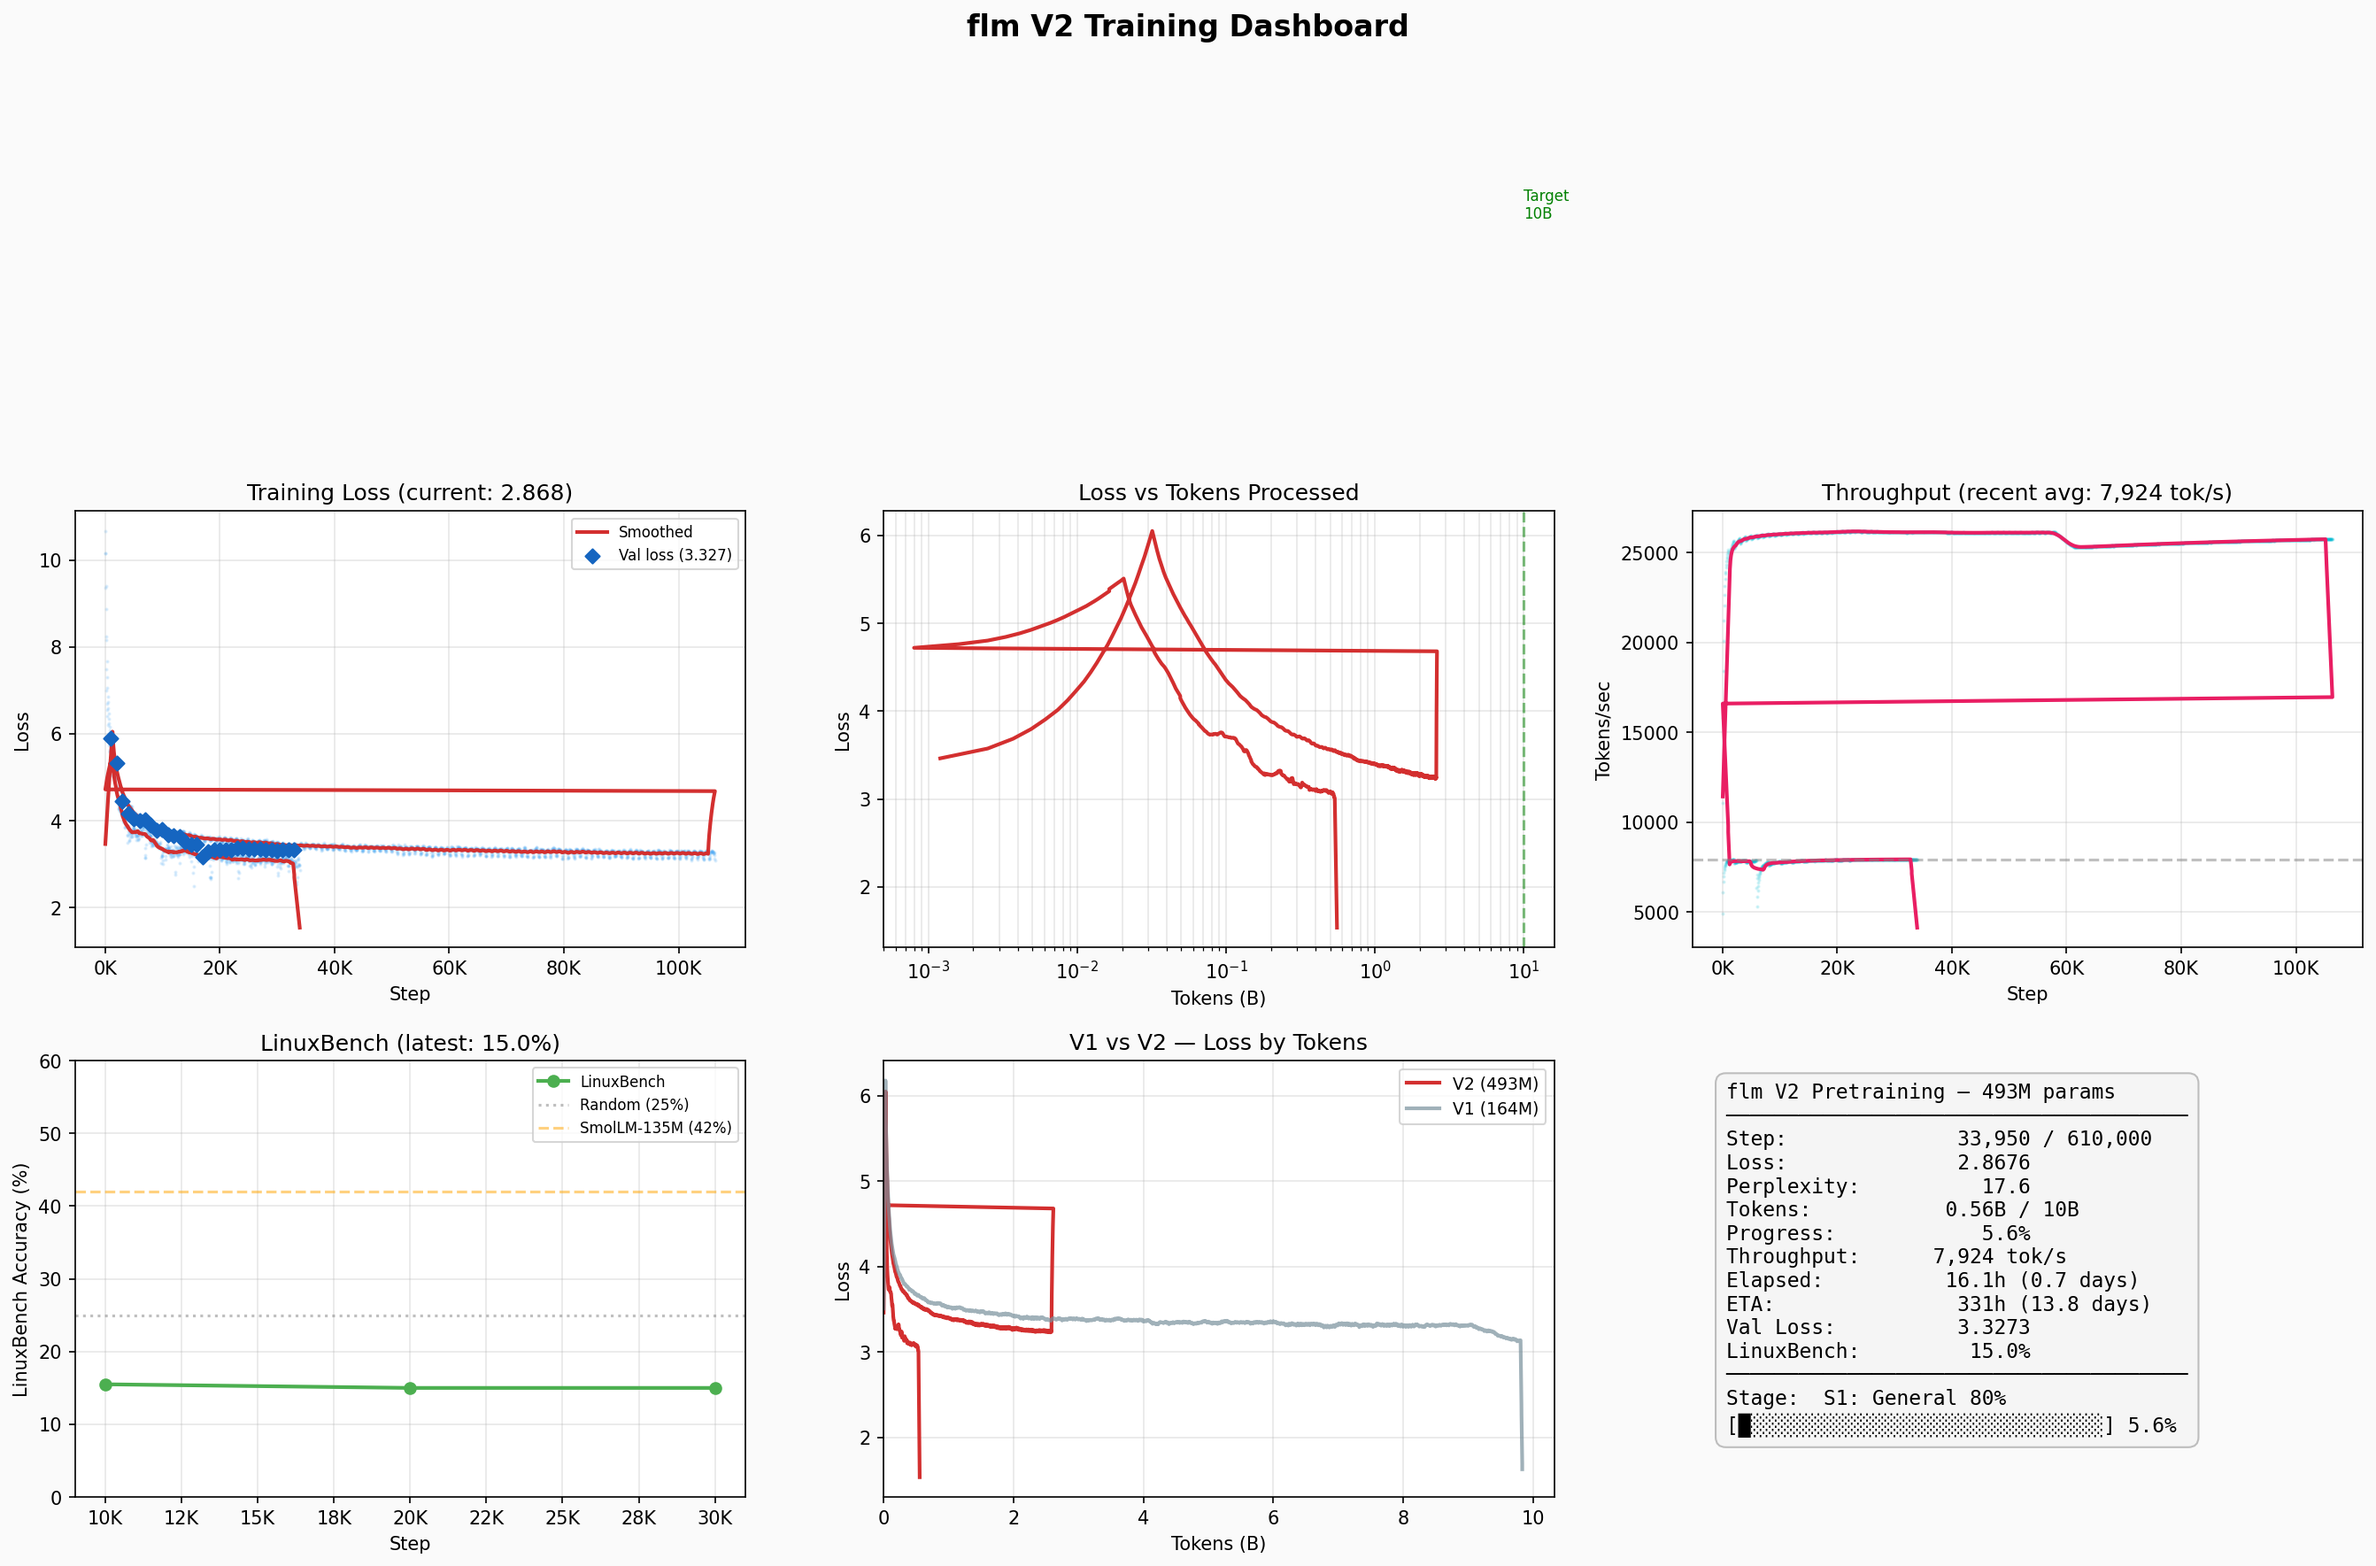
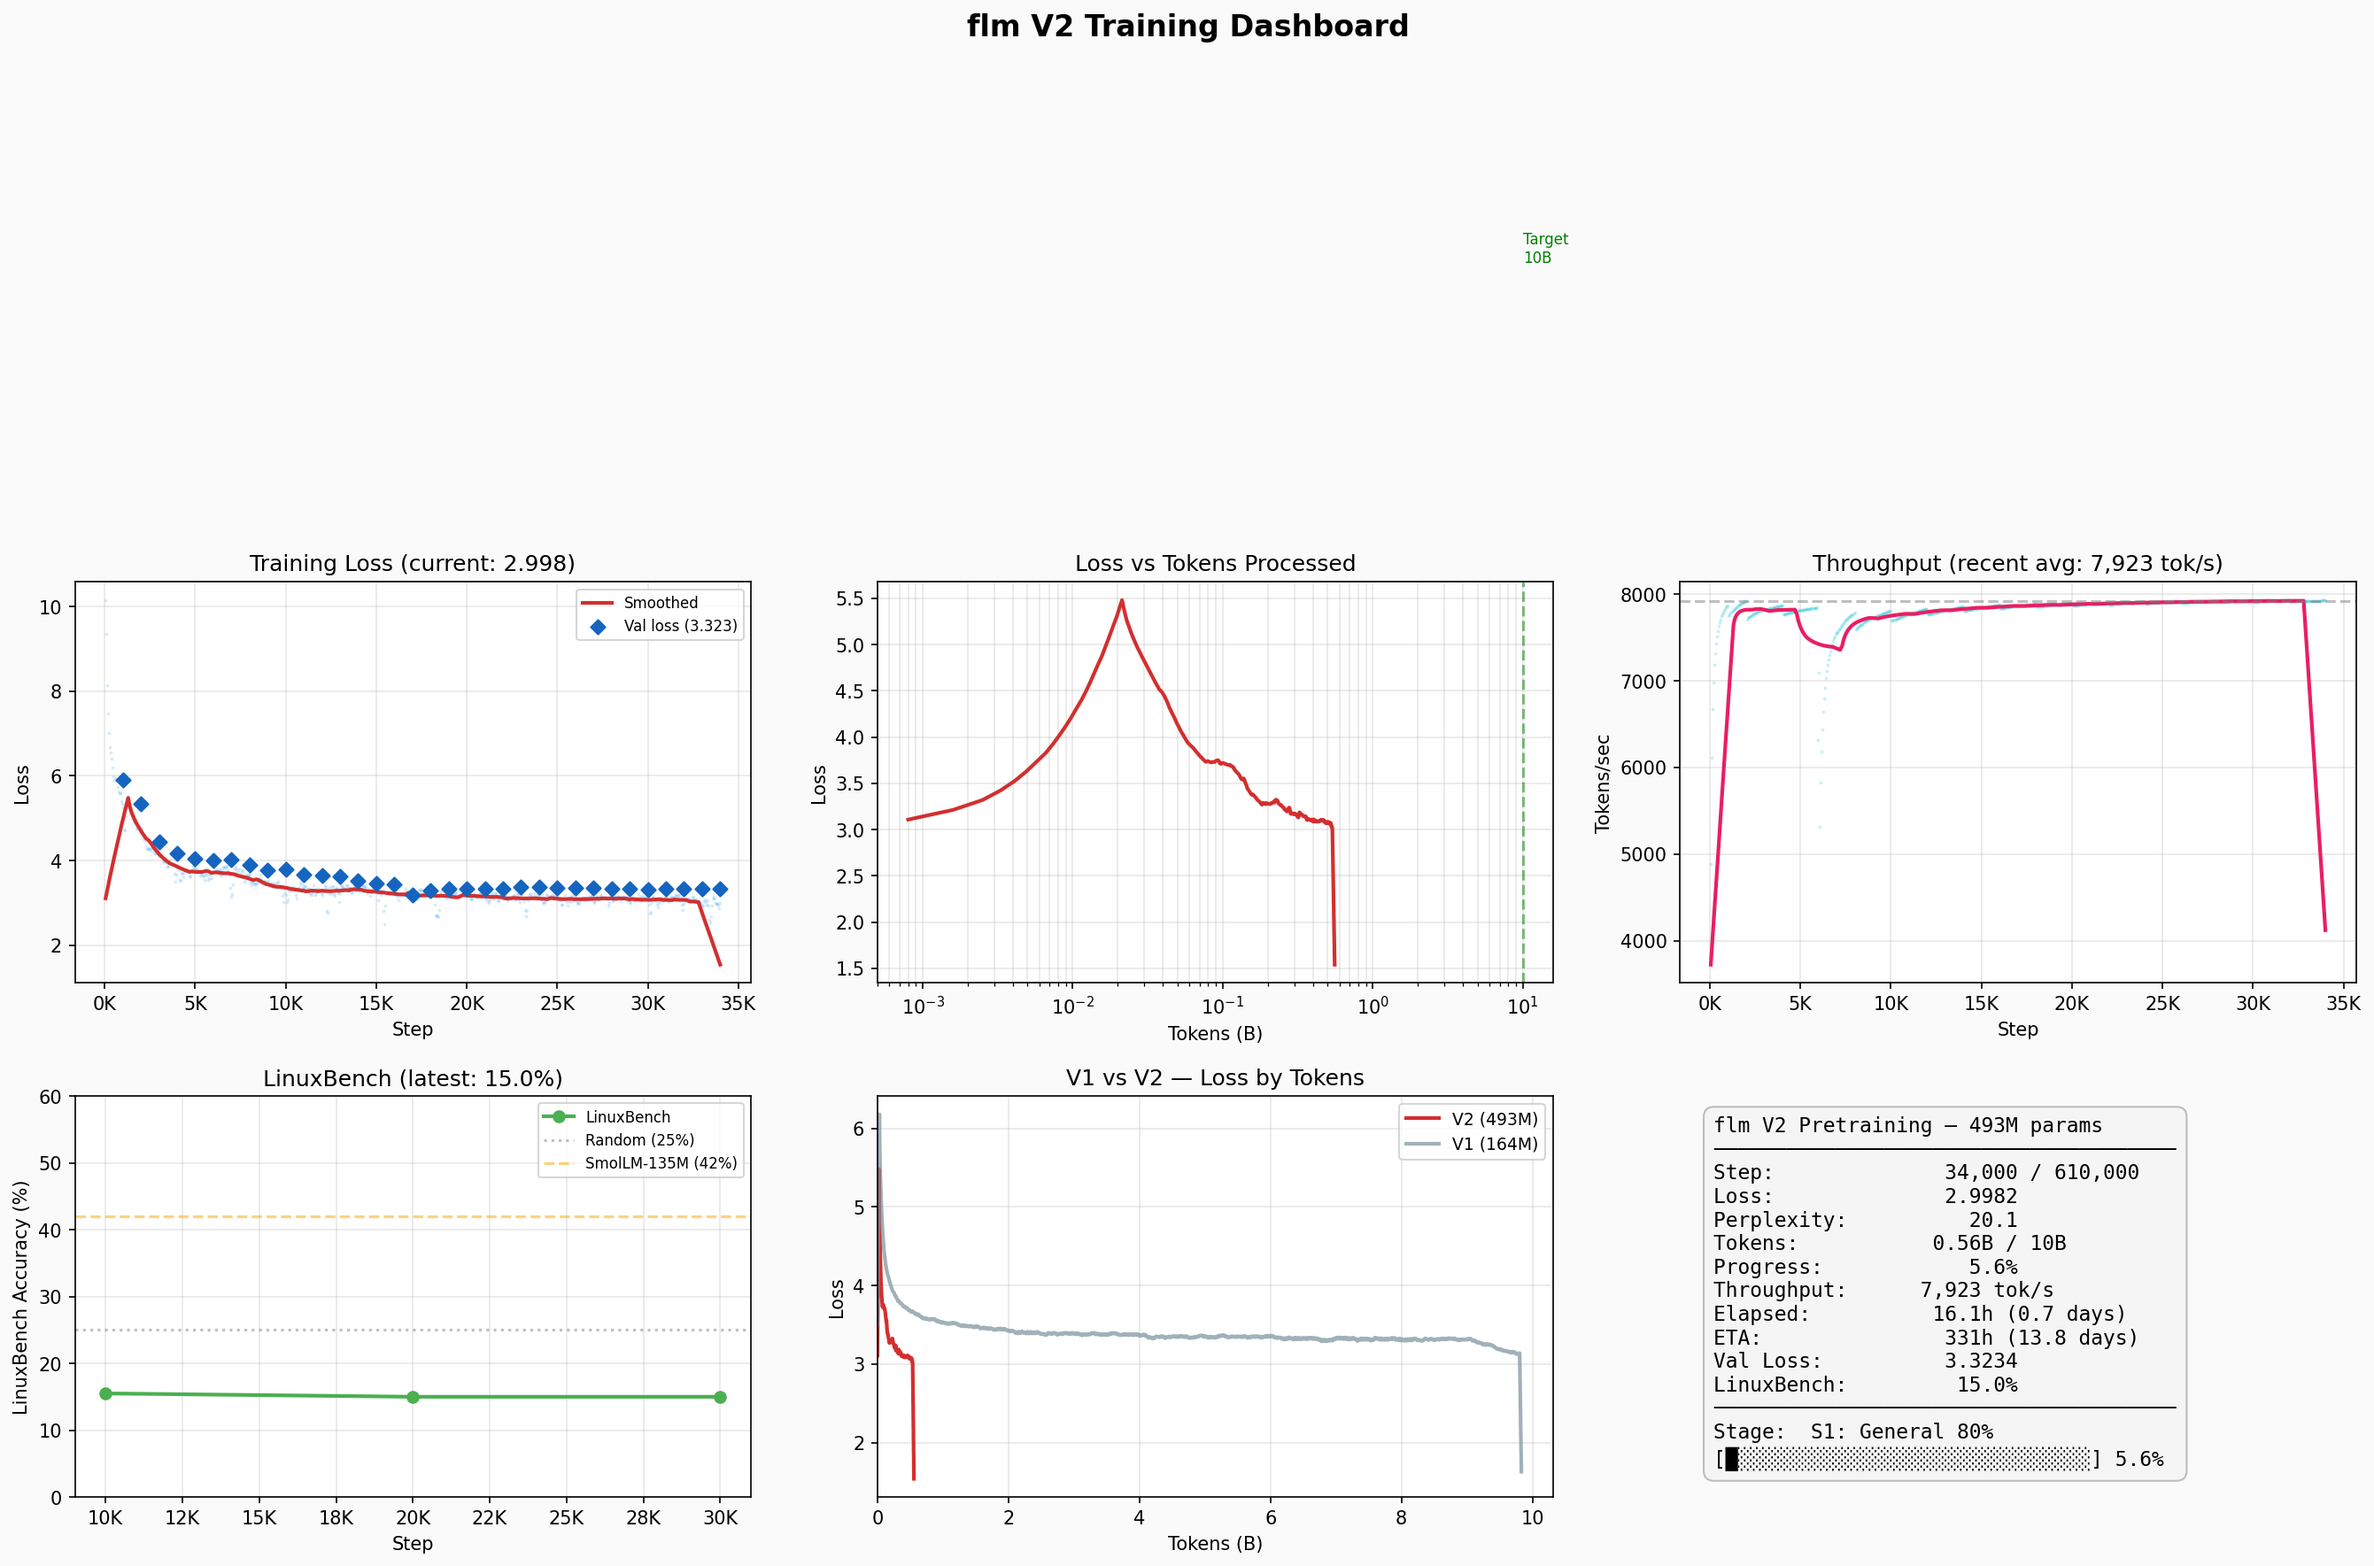
Fix dashboard spiral bug, handle run restarts in metrics
- Detect step decreases in metrics CSV and use only latest run
- Deduplicate steps (merge val_loss/linux_bench from extra rows)
- Updated dashboard plot at step 34K

diff --git a/plot_training.py b/plot_training.py
@@ -61,7 +61,7 @@ def load_metrics():
                  "tokens_per_sec", "tokens_total", "tokens_billions",
                  "elapsed_hours", "val_loss", "linux_bench_acc", "stage"]
 
-    metrics = []
+    all_rows = []
     with open(METRICS_FILE) as f:
         for line in f:
             line = line.strip()
@@ -84,20 +84,37 @@ def load_metrics():
                     row["val_loss"] = float(parts[9]) if parts[9] else None
                     row["linux_bench_acc"] = float(parts[10]) if parts[10] else None
                     row["stage"] = int(parts[11]) if parts[11] else 1
-                # Handle 10-column format (phase)
-                elif len(parts) >= 10:
-                    row["val_loss"] = None
-                    row["linux_bench_acc"] = None
-                    row["stage"] = 1
                 else:
                     row["val_loss"] = None
                     row["linux_bench_acc"] = None
                     row["stage"] = 1
-                metrics.append(row)
+                all_rows.append(row)
             except (ValueError, IndexError):
                 continue
 
-    return metrics
+    # Detect restarts (step decreases) and keep only the latest run
+    last_restart = 0
+    for i in range(1, len(all_rows)):
+        if all_rows[i]["step"] < all_rows[i - 1]["step"]:
+            last_restart = i
+    if last_restart > 0:
+        print(f"  Detected restart at index {last_restart}, using latest run "
+              f"({len(all_rows) - last_restart} entries)")
+    metrics = all_rows[last_restart:]
+
+    # Deduplicate steps (keep last entry per step for val_loss/linux_bench rows)
+    seen = {}
+    for m in metrics:
+        s = m["step"]
+        if s not in seen:
+            seen[s] = m
+        else:
+            # Merge: keep non-None val_loss/linux_bench from either
+            if m.get("val_loss") is not None:
+                seen[s]["val_loss"] = m["val_loss"]
+            if m.get("linux_bench_acc") is not None:
+                seen[s]["linux_bench_acc"] = m["linux_bench_acc"]
+    return list(seen.values())
 
 
 def load_v1_metrics():
